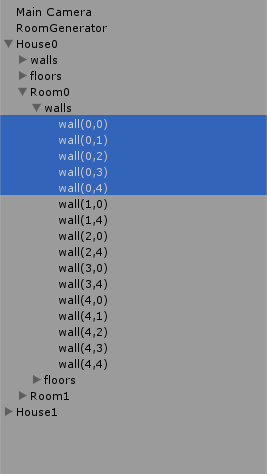
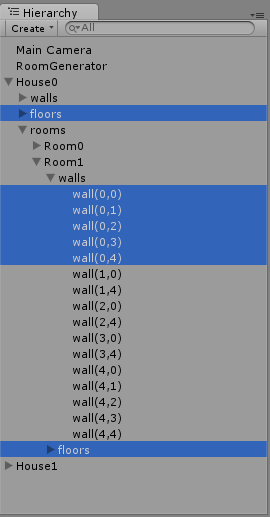
Util.Add improvement added, see HouseGener comparison

diff --git a/Assets/Scripts/Structure.cs b/Assets/Scripts/Structure.cs
@@ -8,10 +8,10 @@ using System.Collections;
 
 public class Structure : MonoBehaviour {
 
-    protected int width; //The width of structure
-    protected int height; //The height of the structure
-    protected int x; //The x Position of the structure
-    protected int y; //The y Positino of the structure
+    protected float width; //The width of structure
+    protected float height; //The height of the structure
+    protected float x; //The x Position of the structure
+    protected float y; //The y Positino of the structure
 
 	// Use this for initialization
 	void Start () {
@@ -23,13 +23,17 @@ public class Structure : MonoBehaviour {
 	
 	}
 
+    /**
+     *  Scale affects dimensions but not pos. 
+     *  pos is (0,0) in bottom-left.
+     */
 
-    public void Generate(GameObject goParent, Vector2 dimensions, Vector2 pos)
+    public void Generate(GameObject goParent, Vector2 dimensions, Vector2 pos, float scale)
     {//Generate all the tiles to form the house
 
         //phase 0: initialize house dimensions
-        width = (int)dimensions.x;
-        height = (int)dimensions.y;
+        width = dimensions.x;
+        height = dimensions.y;
 
         GameObject walls = new GameObject("walls");
         walls.transform.parent = goParent.transform;
@@ -49,13 +53,13 @@ public class Structure : MonoBehaviour {
                 GameObject go;
                 if (yy == 0 || yy == height || xx == 0 || xx == width)
                 {
-                    go = (GameObject)Instantiate(Resources.Load("wall"), new Vector3(xx + pos.x, yy + pos.y, 0), Quaternion.identity);
+                    go = (GameObject)Instantiate(Resources.Load("wall"), new Vector3((xx + pos.x) * scale, (yy + pos.y) * scale, 0), Quaternion.identity);
                     go.name = "wall("+xx+","+yy+")";
                     go.transform.parent = walls.transform;
                 }
                 else
                 {
-                    go = (GameObject)Instantiate(Resources.Load("floor"), new Vector3(xx + pos.x, yy + pos.y, 0), Quaternion.identity);
+                    go = (GameObject)Instantiate(Resources.Load("floor"), new Vector3((xx + pos.x)*scale, (yy + pos.y)*scale, 0), Quaternion.identity);
                     go.name = "floor(" + xx + "," + yy + ")";
                     go.transform.parent = floors.transform;
                 }

diff --git a/Assets/Scripts/HouseGenerator.cs b/Assets/Scripts/HouseGenerator.cs
@@ -17,6 +17,7 @@ public class HouseGenerator : MonoBehaviour {
 	House houseRef;
     Room roomRef;
 
+    public const float HALF = 0.5f;
 
 	// Use this for initialization
 	void Start () {
@@ -30,8 +31,19 @@ public class HouseGenerator : MonoBehaviour {
         roomRef = GameObject.Find("RoomGenerator").GetComponent<Room>();
         GameObject room0a = roomRef.Generate(new Vector2(4, 4), new Vector2(1, 0));
         GameObject room0b = roomRef.Generate(new Vector2(4, 4), new Vector2(2, 6));
-        room0a.transform.parent = house0.transform;
-	    room0b.transform.parent = house0.transform;
+
+	    GameObject rooms0 = new GameObject("rooms");
+        rooms0.transform.parent = house0.transform;
+        room0a.transform.parent = rooms0.transform;
+        room0b.transform.parent = rooms0.transform;
+
+        //house inside room
+	    GameObject house2 = houseRef.Generate(new Vector2(6, 6), new Vector2(1, 1), HALF);
+
+        //this redundant stupdity is avoided
+        house2.transform.position += new Vector3(house2.transform.position.x + 0, house2.transform.position.y + 0, house2.transform.position.z - 2);
+        //this is smarter
+	    Util.Add(house2.transform.position, new Vector3(0,0,-2));
 
 
 	    //House home = new House ();

diff --git a/Assets/Scripts/House.cs b/Assets/Scripts/House.cs
@@ -26,13 +26,20 @@ public class House : MonoBehaviour {
 	
 	}
 
+    //no scale provided, defaults to 1
     public GameObject Generate(Vector2 dimensions, Vector2 pos)
+    {
+        return Generate(dimensions, pos, 1);
+    }
+
+    //scale provided, typically will be 0.5f
+    public GameObject Generate(Vector2 dimensions, Vector2 pos, float scale)
     {
         if (stRef != null)
         {
             house = new GameObject(thisClassName + counter++);
             house.AddComponent<House>();
-            stRef.Generate(house, dimensions, pos);
+            stRef.Generate(house, dimensions, pos, scale);
             return house;
         }
         else

diff --git a/Assets/Scripts/Room.cs b/Assets/Scripts/Room.cs
@@ -43,7 +43,7 @@ public class Room : Rectangle {
         if (stRef != null)
         {
             GameObject room = new GameObject(thisClassName + counter++);
-            stRef.Generate(room, dimensions, pos);
+            stRef.Generate(room, dimensions, pos, 1);
             room.transform.position += new Vector3(0,0,-1); //hack
             return room;
         }

diff --git a/Assets/Scripts/Util.cs b/Assets/Scripts/Util.cs
@@ -1,0 +1,13 @@
+using UnityEngine;
+using System.Collections;
+
+public static class Util {
+
+    //avoids repetition of manually breaking down to components every time
+    public static void Add(Vector3 source, Vector3 addtn)
+    {
+        source = new Vector3(source.x + addtn.x, source.y + addtn.y, source.z + addtn.z);
+    }
+
+
+}
